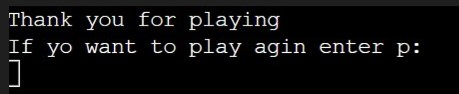
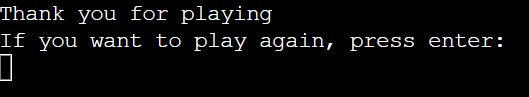
Changed images and linked in README.md. Fixed spelling in run.py

Changed region(s): [[0.0, 0.0, 1.0, 1.0]]

diff --git a/run.py b/run.py
@@ -23,7 +23,7 @@ input_correct = False
 def restartGame():
     """
     Used when a player wants to play again. Gives the user the options to
-    play again, play rules, or exit the game. With a suitable message.
+    play again, game rules, or exit the game. With a suitable message.
     """
     inp = str(input("Press p for play, r for rules, e for exit and enter: \n"))
     os.system('clear')
@@ -53,7 +53,7 @@ def gameRules():
     print("3. Players take turns putting their marks in empty squares.")
     print("4. The first player to get 3 in a row, is the winner.")
     print("5. You can get three in a row (up, down, across, or diagonally)")
-    inp = str(input("Enter p for play or e for exit: "))
+    inp = str(input("Press p for play or e for exit and enter: "))
     if inp == "e":
         os.system('clear')
         print("Thank you for playing")

diff --git a/README.md b/README.md
@@ -2,16 +2,16 @@
 
 Tic tac toe game is a classic three in a row game that is also usually played with pen and paper.
 You can read more about it in [Wikipedia](https://en.wikipedia.org/wiki/Tic-tac-toe)
-In this game you play against the computer whoever gets three in a row wins. The target audience for this game is both children and adults who want to have fun and practice their tic tac toe skills. 
+In this game, you play against the computer whoever gets three in a row wins. The target audience for this game is both children and adults who want to have fun and practice their tic tac toe skills. 
 
 [Here](https://tic-tac-toe-game-python.herokuapp.com/?fbclid=IwAR3vCA1AoyU9nDad_jioKuAjqZCTV-8yYd-x1KAHFBb_rFpIQXLTJNcUSK0) is the live link to this python game, which runs in the Code Institute mock terminal on Heroku.
 
 ![The responsive appearance of the game](assets/screenshot-amiresponsive.jpg)
 
-## Table of Contents
+## Table of contents
 
 - [TIC TAC TOE GAME](#tic-tac-toe-game)
-  - [Table of Contents](#table-of-contents)
+  - [Table of contents](#table-of-contents)
   - [Game flow chart](#game-flow-chart)
   - [UX](#ux)
   - [Features](#features)
@@ -37,16 +37,16 @@ To understand how the game works. Created in [Lucid](https://lucid.app/lucidchar
 | Users goal | How the creator fulfills this
 ----|----
 Play tic tac toe against the computer | Make a tic tac toe game you can play against the computer |
-Practice their tic tac toe skills | Allows the user to play as many times as they want
-Easy to navigate | Good navigation possibilities
-Simple to understand | Good explanations in the right place 
+Practice their tic tac toe skills | Play as many times as they want against the computer without any problems 
+Easy to navigate | Clean and good navigation possibilities
+Simple to understand | Clean and good explanations in the right place 
 | |
 
 ## Features
 
 ### How the game works
 
-- __The player is welcomed to the game. And is asked if it wants to play, read the game rules, or exit.__
+- __The player is welcomed to the game. And the player is asked if they want to play, read the game rules, or exit.__
 - __This is clear and easy to understand, which facilitates ease of use__
 
 ![screenshot-game-start](assets/screenshot-game-start.jpg)
@@ -176,6 +176,8 @@ To deploy this page to Heroku the following steps have been followed:
 - __I have used this page [scaler](https://www.scaler.com/topics/random-function-in-python/) to be able to clear the screen and set the computer's selection to random__
 - __Details of tic tac toe game [Wikipedia](https://en.wikipedia.org/wiki/Tic-tac-toe)__
 - __I got the game rules from [.exploratorium](https://www.exploratorium.edu/brain_explorer/tictactoe.html)__
+
+[Back to Table of contents](#table-of-contents)
 
 
 
